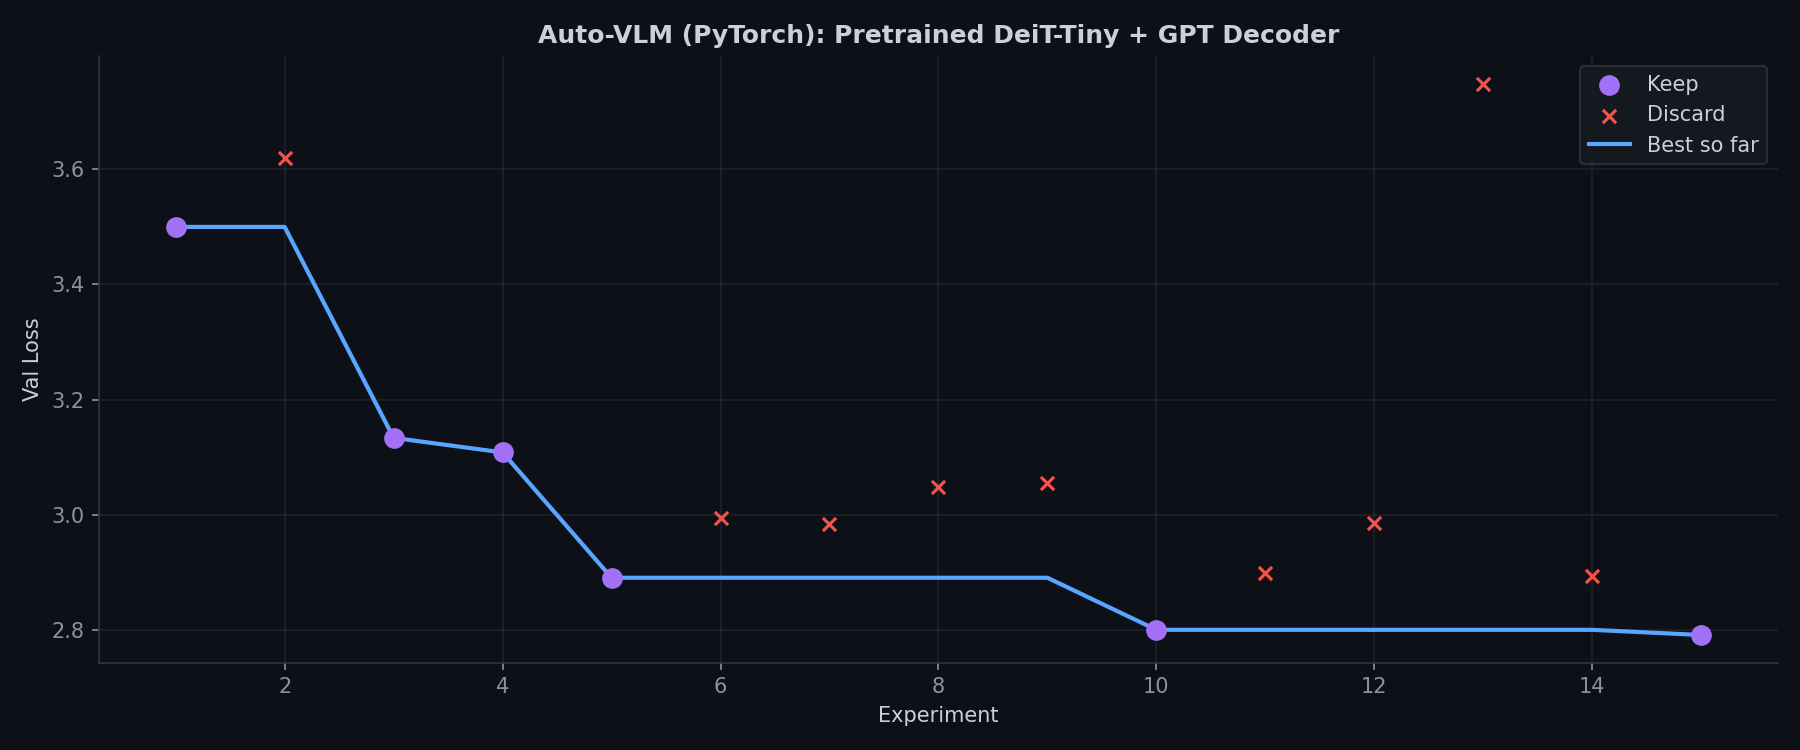
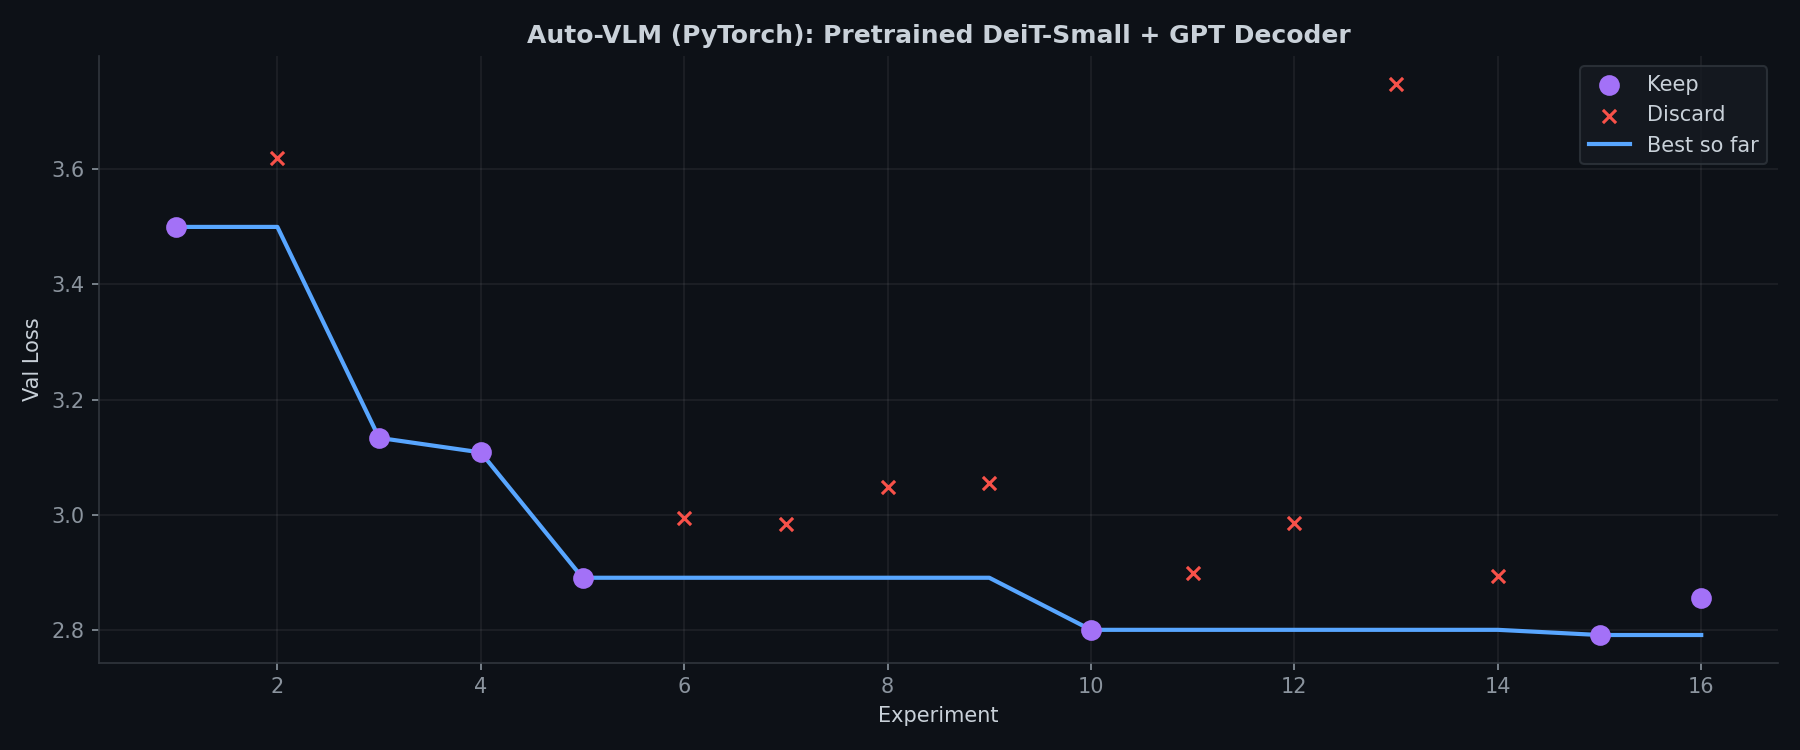
exp T-016: DeiT-Small (val=2.8548) — hitting data wall, need more OD/Seg data

diff --git a/train_torch.py b/train_torch.py
@@ -29,18 +29,18 @@ DEVICE = "mps" if torch.backends.mps.is_available() else "cpu"
 
 @dataclass
 class Config:
-    # Vision encoder (pretrained DeiT-Tiny)
+    # Vision encoder (pretrained DeiT-Small — dim=384 matches decoder)
     image_size: int = 224
-    patch_size: int = 16  # DeiT-Tiny uses patch_size=16
-    vision_dim: int = 192  # DeiT-Tiny embed_dim
-    vision_model: str = "vit_tiny_patch16_224"
+    patch_size: int = 16
+    vision_dim: int = 384  # DeiT-Small embed_dim
+    vision_model: str = "vit_small_patch16_224"
     freeze_vision: bool = True
 
     # Language decoder
     lang_dim: int = 384
     lang_depth: int = 4
     lang_heads: int = 6
-    max_seq_len: int = 512  # 196 patches + text
+    max_seq_len: int = 512
 
     # Training
     batch_size: int = 2
@@ -49,7 +49,7 @@ class Config:
     warmup_steps: int = 100
     dropout: float = 0.2
     grad_clip: float = 1.0
-    time_budget: int = 3600  # seconds
+    time_budget: int = 7200  # 2 hours
 
     # Data
     vocab_size: int = 0  # Set from tokenizer
